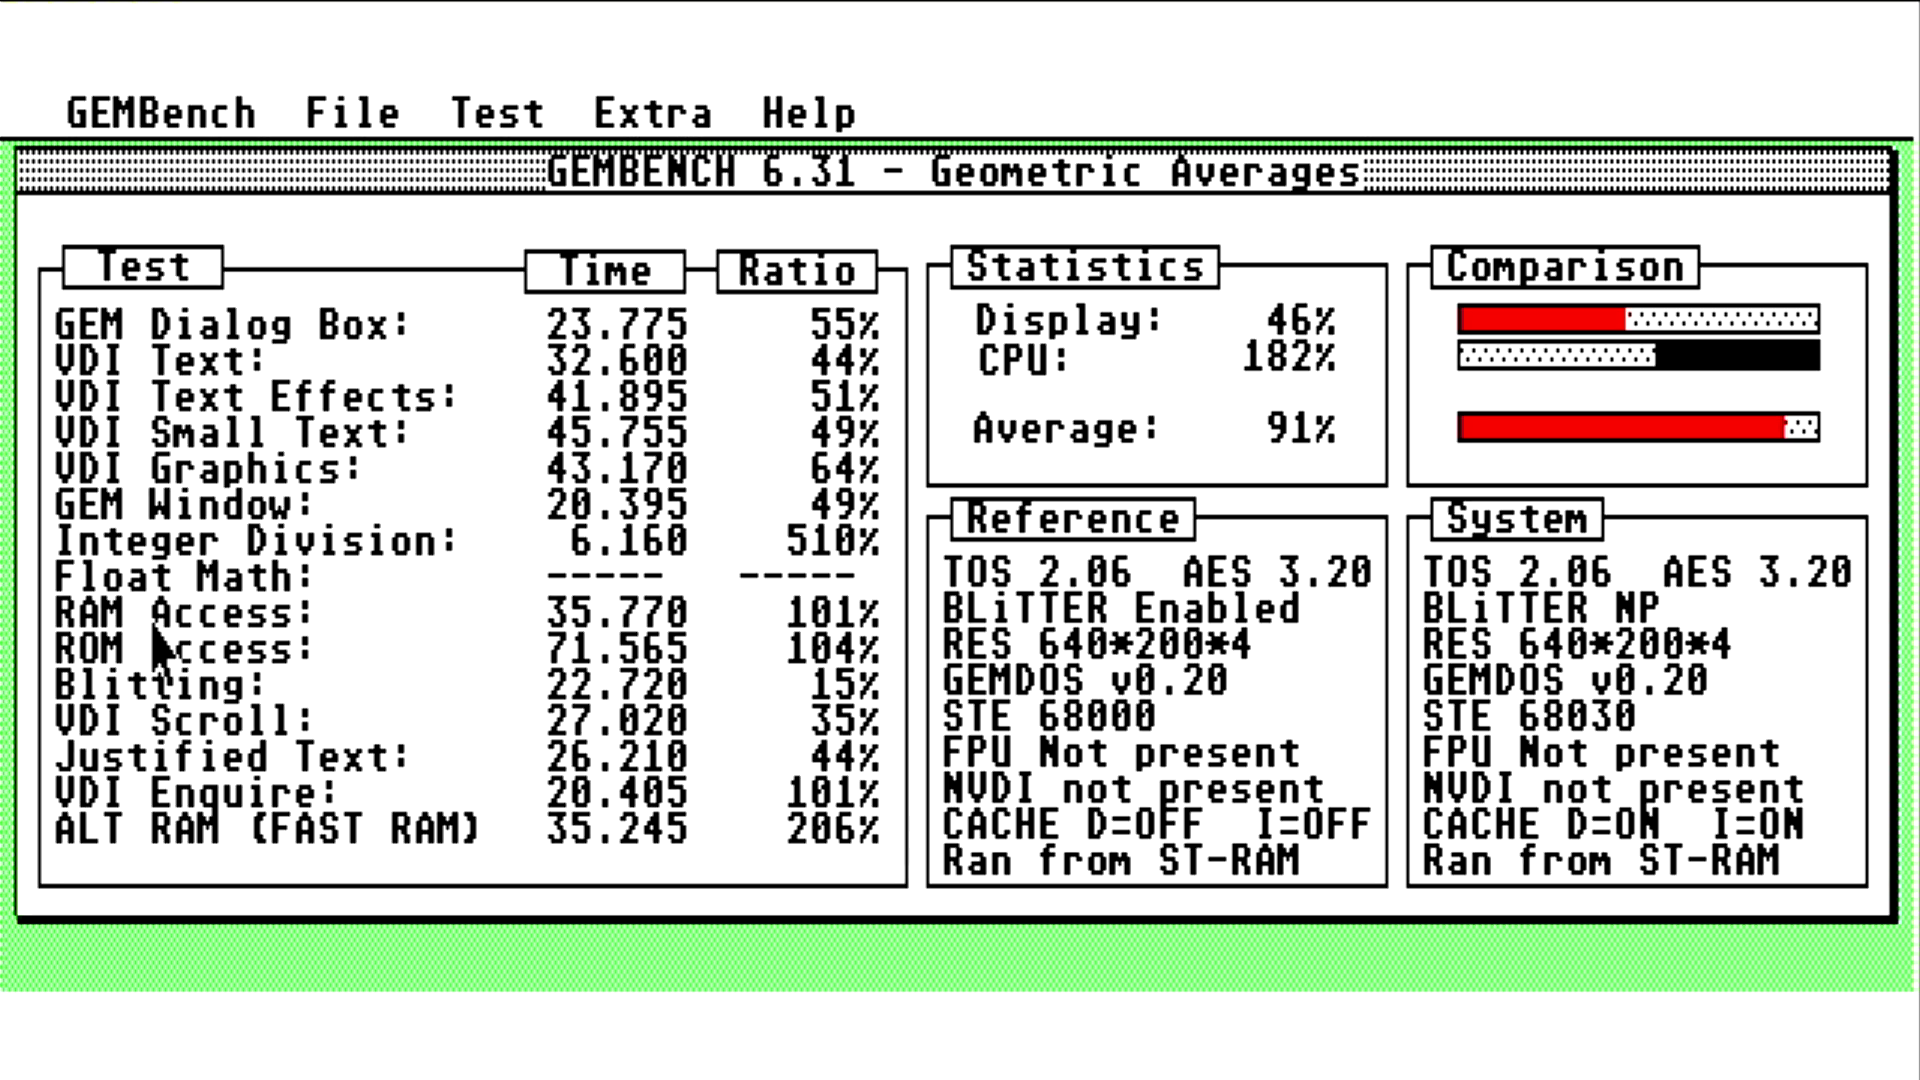
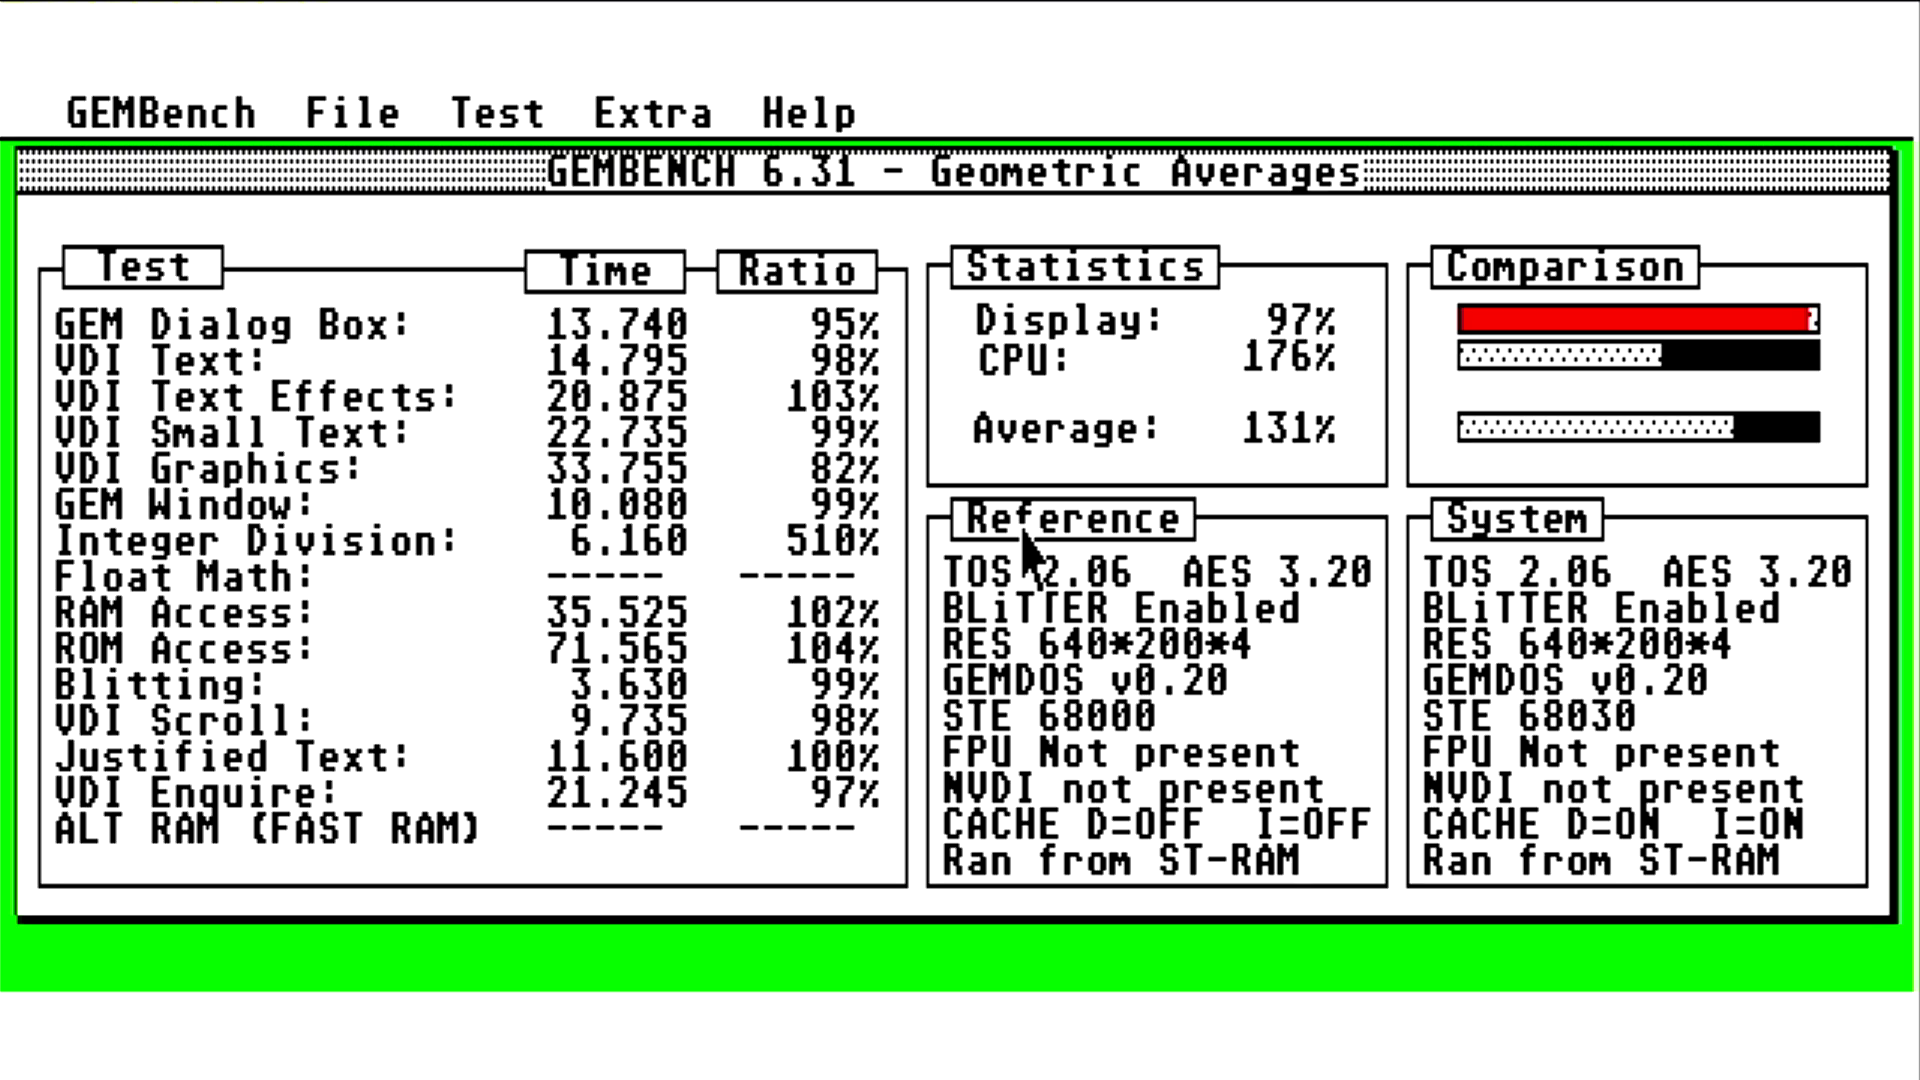
README: new GEMBENCH 6.31 screenshot from David (blitter on via BLITON, 131%)

diff --git a/README.md b/README.md
@@ -55,12 +55,12 @@ GEMBENCH and most older programs still load into ST-RAM unless they are marked t
 screen says "Ran from ST-RAM".
 
 
-![GEMBENCH 6.31 on the 68030 STE core](docs/img/gembench_631.png)
+![GEMBENCH 6.31 on the 68030 STE core, blitter on](docs/img/gembench_631.png)
 
-*Real capture from the actual device: a Tang Console 138K running the 68030 STE core, grabbed from its HDMI output.
-GEMBENCH 6.31 under TOS 2.06 (ST Medium, STE 68000 reference, I and D caches on, run from ST-RAM): CPU 182%,
-integer division 510%, TT-RAM (ALT RAM) access 206%. The display tests are low because the blitter was not enabled
-for this run, so the overall average is 91%.*
+*Real capture from the actual device: a Tang Console 138K running the 68030 STE core (current build, with the
+RMC/blitter fixes), grabbed from its HDMI output. GEMBENCH 6.31 under TOS 2.06 (ST Medium, STE 68000 reference,
+I and D caches on, run from ST-RAM), with the blitter switched on using BLITON: Display 97%, CPU 176%,
+average 131%.*
 
 ![FrontBench (Frontier: Elite 2 benchmark) on the 68030 STE core](docs/img/frontbench_frontier.png)
 
